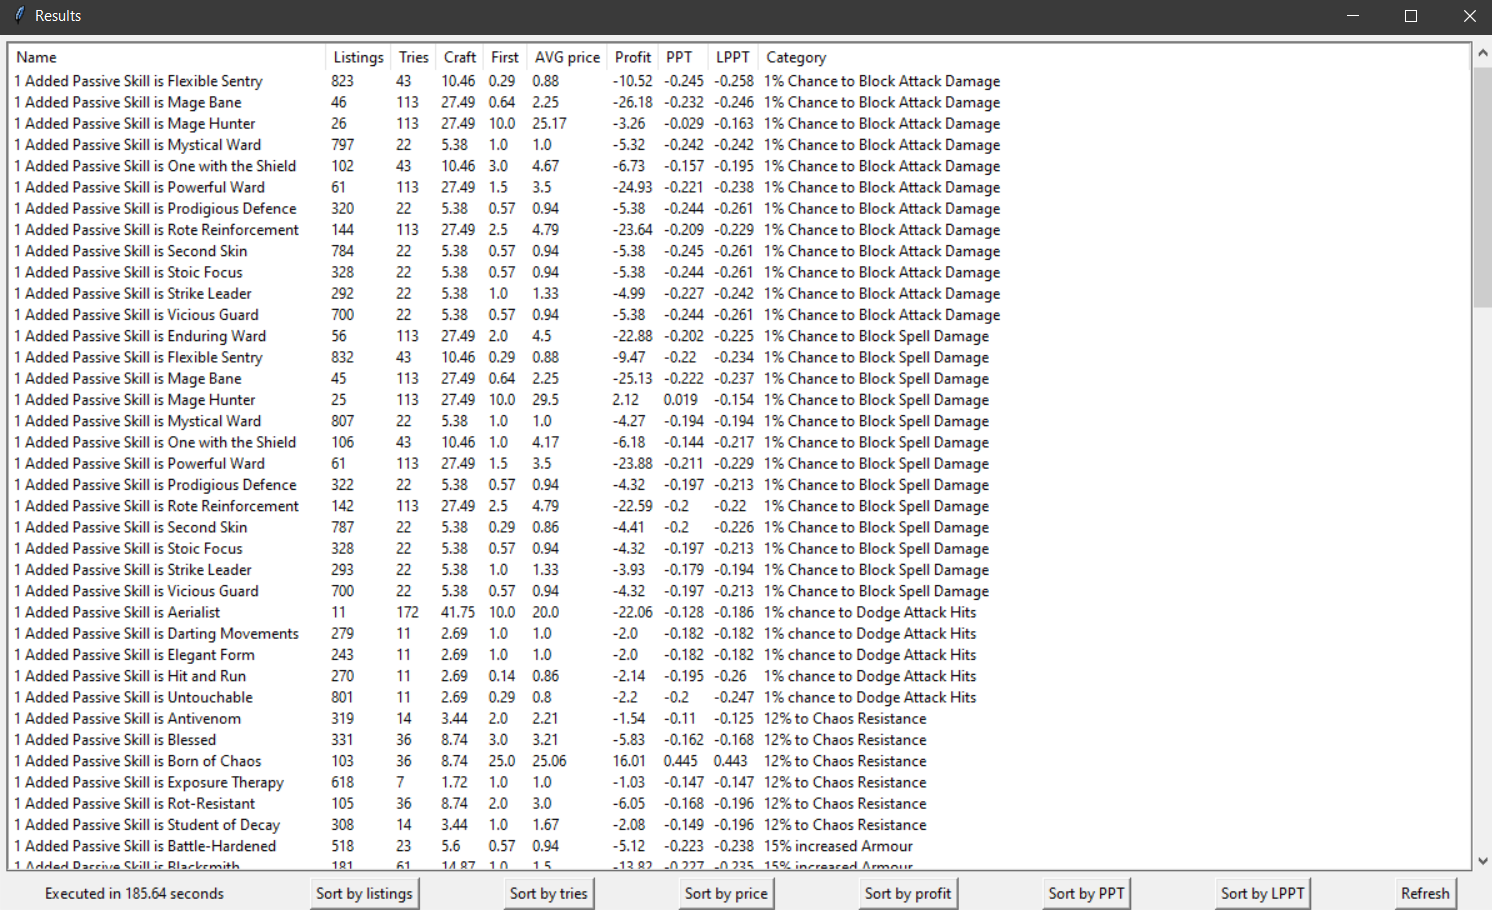
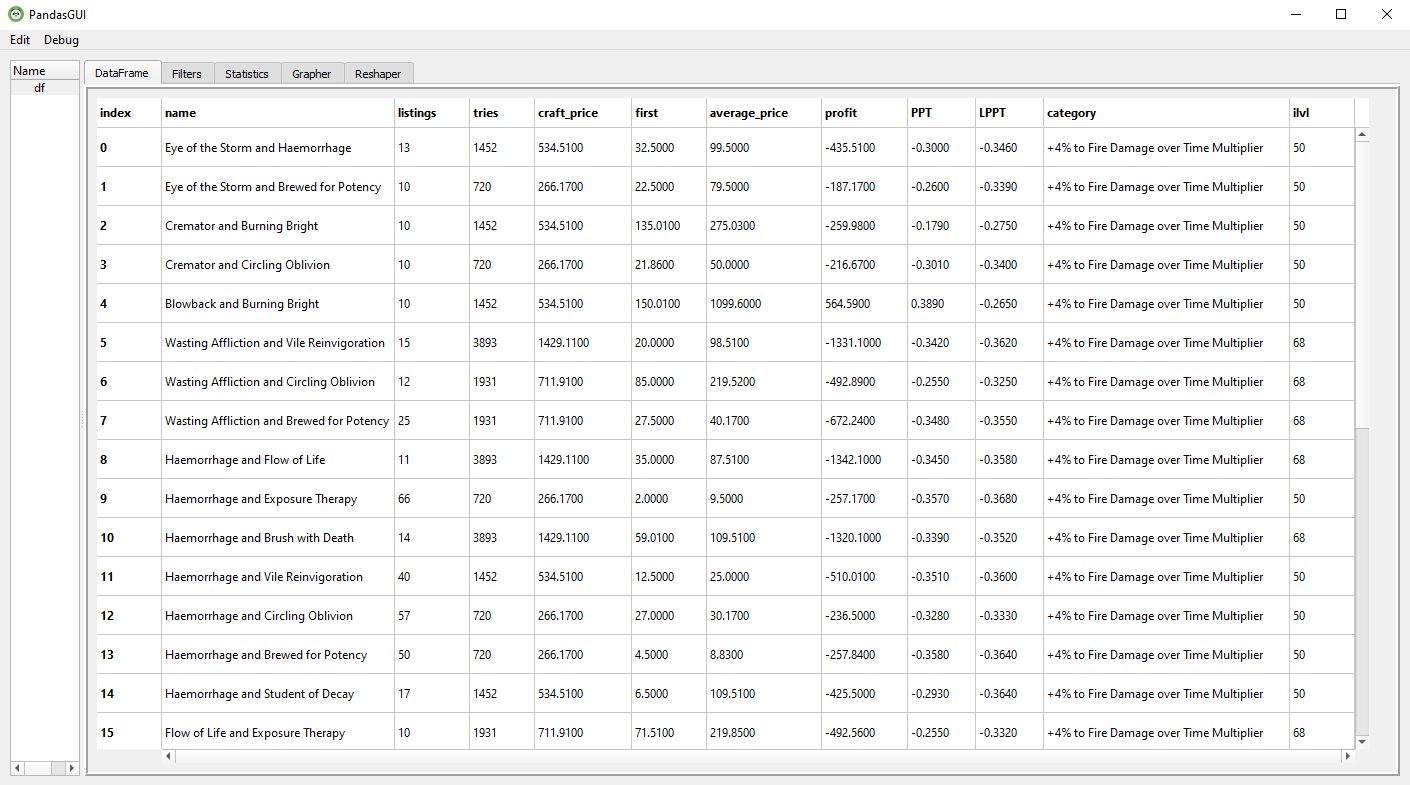
Remove tkinter dependency

diff --git a/PoeCluster.py b/PoeCluster.py
@@ -3,14 +3,12 @@ import priceGetter
 import requests
 import time
 from itertools import combinations
-from tkinter import *
-from TkTreectrl import *
-import webbrowser
+# import webbrowser
 import os
 import json
 import ctypes
-import sys
-
+import pandas as pd
+from pandasgui import show
 
 def toggle_console(a):
     # hiding the console
@@ -22,36 +20,9 @@ def toggle_console(a):
         user32.ShowWindow(hWnd, SW_HIDE)
 
 
-def open_link(q):
-    webbrowser.open('https://www.pathofexile.com/trade/search/' +
-                    priceGetter.current_league + '/' + all_averages[q]['id'])
-
-
-def sort_items(sort_type):
-    global all_averages
-    all_averages = sorted(
-        all_averages, key=lambda i: i[sort_type], reverse=True)
-    refreshList()
-
-
-def update():
-    toggle_console(1)
-    try:
-        a = treeview.curselection()[0]
-    except:
-        return
-    jewel_price = priceGetter.get_category_jewel_price(all_averages[a]['category_full'], all_averages[a]['ilvl'])
-    all_averages[a] = priceGetter.getNotablePrice(
-        all_averages[a]['category_full'], all_averages[a]['notable_full'], query, inp, jewel_price)
-    refreshList()
-    toggle_console(0)
-
-
-def refreshList():
-    treeview.delete(ALL)
-    for item in all_averages:
-        treeview.insert(END, item['name'], item['listings'], item['tries'], item['craft'], item['first'],
-                        item['average'], item['profit'], item['PPT'], item['LPPT'], item['ilvl'], item['category'])
+# def open_link(q): #deprecated for now
+#     webbrowser.open('https://www.pathofexile.com/trade/search/' +
+#                     priceGetter.current_league + '/' + all_averages[q]['id'])
 
 
 try:
@@ -111,52 +82,12 @@ try:
             if notableData != 0:
                 all_averages.append(notableData)
 
-
-
-    # section for creating Tkinter window
-    root = Tk()
-    root.title("Results")
-    root.geometry("1200x700")
-    for i in range(0, 9):
-        root.columnconfigure(i, weight=1)
-    root.rowconfigure(0, weight=1)
-
-    streeview = ScrolledMultiListbox(root, scrollmode='auto')
-    streeview.grid(columnspan=9, row=0, padx=5, pady=5, sticky='nsew')
-    streeview.grab_current()
-    treeview = streeview.listbox
-
-
-    treeview.focus_set()
-    treeview.config(columns=('Name', 'Listings', 'Tries', 'Craft', 'First',
-                            'AVG price', 'Profit', 'PPT', 'LPPT', 'ilvl', 'Category'), command=open_link)
-
-    for item in all_averages:
-        treeview.insert(END, item['name'], item['listings'], item['tries'], item['craft'], item['first'],
-                        item['average'], item['profit'], item['PPT'], item['LPPT'], item['ilvl'], item['category'])
-
-
-    result_time = round(time.time() - start_time, 3)
-    Label(root, text="Executed in " + str(result_time) + " seconds").grid(column=0)
-
-    # sadly i didn't find a way to execute a function when pressing the column name, so I have to resort to manual sorting with buttons
-    Button(root, text="Sort by listings", command=lambda: sort_items(
-        "listings")).grid(column=1, row=1)
-    Button(root, text="Sort by tries", command=lambda: sort_items(
-        "tries")).grid(column=2, row=1)
-    Button(root, text="Sort by price", command=lambda: sort_items(
-        "average")).grid(column=3, row=1)
-    Button(root, text="Sort by profit", command=lambda: sort_items(
-        "profit")).grid(column=4, row=1)
-    Button(root, text="Sort by PPT", command=lambda: sort_items(
-        "PPT")).grid(column=5, row=1)
-    Button(root, text="Sort by LPPT", command=lambda: sort_items(
-        "LPPT")).grid(column=6, row=1)
-    Button(root, text="Refresh", command=lambda: update()).grid(column=7, row=1)
-
     toggle_console(0)
 
-    root.mainloop()
-except:
-    print(sys.exc_info())
+    df = pd.DataFrame(all_averages)
+    df.drop(['request', 'category_full','notable_full','id'], axis=1, inplace=True)
+    #gui
+    show(df)
+except Exception as e:
+    print(e)
     stop = int(input())

diff --git a/readme.md b/readme.md
@@ -9,12 +9,12 @@ Listing all the combinations of notables for medium cluster jewels can take up t
 
 # Features
 
-* Fancy scrollable user inteface with all the cluster jewels
+* Fancy user inteface with all the cluster jewels
 * Index all the single notables for medium and small cluster jewels
-* Index all the possible combinations of notables for medium cluster jewels
-* Double click the selected jewel to open it in pathofexile.com/trade
-* Refresh the info about the selected notable
-* Prices for crafting the jewel
+* Index all the possible combinations of notables for medium cluster jewels~~
+* ~~Double click the selected jewel to open it in pathofexile.com/trade
+* ~~Refresh the info about the selected notable~~
+* Up to date prices for crafting the jewel
 * Profit calculations
 * Sorting
 
@@ -43,9 +43,9 @@ PoeCluster uses a number of python libraries to work properly:
 * time - to work with time
 * itertools - to get all combinations
 * statistics - for more calculations and stats
-* tkinter - fancy user interface with buttons
-* TkTreectrl - addon for tkinter, so I can create table with multiple columns
-* webbrowser - open links
+* pandas - for datasets
+* pandasgui - gui for datasets (if I never have to use tkintertreectrl so be it)
+* ~~webbrowser - open links~~
 * bs4 - parse html and find necessary items
 * os - some commands for os
 * json - parse json file
@@ -66,26 +66,26 @@ pip install statistics
 pip install bs4
 ```
 
-Installing TkTreectrl:
+~~Installing TkTreectrl:~~
 
-You will need 2 additional files: <https://sourceforge.net/projects/tktreectrl/> and <https://sourceforge.net/projects/tkintertreectrl/>
+~~You will need 2 additional files: <https://sourceforge.net/projects/tktreectrl/> and <https://sourceforge.net/projects/tkintertreectrl/>~~
 
-Download this file: <https://sourceforge.net/projects/tkintertreectrl/>
+~~Download this file: <https://sourceforge.net/projects/tkintertreectrl/>~~
 
-Extract it somewhere.
+~~Extract it somewhere.~~
 
-Open terminal in extracted location.
+~~Open terminal in extracted location.~~
 
-Run this:
-
-```
-python setup.py install
+~~Run this:~~
 
 ```
+~~python setup.py install~~
 
-Navigate to C:\Users\\{yourUser}\AppData\Local\Programs\Python\Python39\tcl.
+```
 
-Insert here the folder treectrl2.4.1 from <https://sourceforge.net/projects/tktreectrl/>
+~~Navigate to C:\Users\\{yourUser}\AppData\Local\Programs\Python\Python39\tcl.~~
+
+~~Insert here the folder treectrl2.4.1 from <https://sourceforge.net/projects/tktreectrl/>~~
 
 ### Todos
 
@@ -93,7 +93,7 @@ Insert here the folder treectrl2.4.1 from <https://sourceforge.net/projects/tktr
 
 * ~~Add auto update for data files. Currently I have to manually download all cluster pages from craftofexile.com every league / every update to cluster jewels. Also automatically download the stats.json file every new league from <https://www.pathofexile.com/api/trade/data/stats>. Also auto update current league.~~
 * ~~Change crafting process from mod % to actual mod weights. It will be more accurate, and I could just get all info from poedb.tw instead of craftofexile.com.~~
-* Replace TktreeCtrl. It was kinda difficult to install and I couldn't figure out how to sort rows by pressing the collumn header (that's why I have buttons and I just have a different list for each button).
+* ~~Replace TktreeCtrl. It was kinda difficult to install and I couldn't figure out how to sort rows by pressing the collumn header (that's why I have buttons and I just have a different list for each button)~~.
 * ~~Figure out the exact way craftofexile.com calculates augmentation orb count when crafting double prefix cluster jewels with alt+aug+regal. Other currencies I figured out correctly as far as I can tell.~~
 * ~~Remove all data pages completely. Currently it parses all the downloaded pages for cluster jewels at the start of each run and it isn't efficient. I just need to add all the necessary info about cluster jewels into one/multiple files and read from there. Probably implement together with auto-update, so it just updates this file instead of downloading all the fully-JS-rendered webpages about cluster jewels every new league.~~
 * Improve speed of execution? Probably impossible, because pathofexile.com/trade rate-limit already is the limiting factor.
